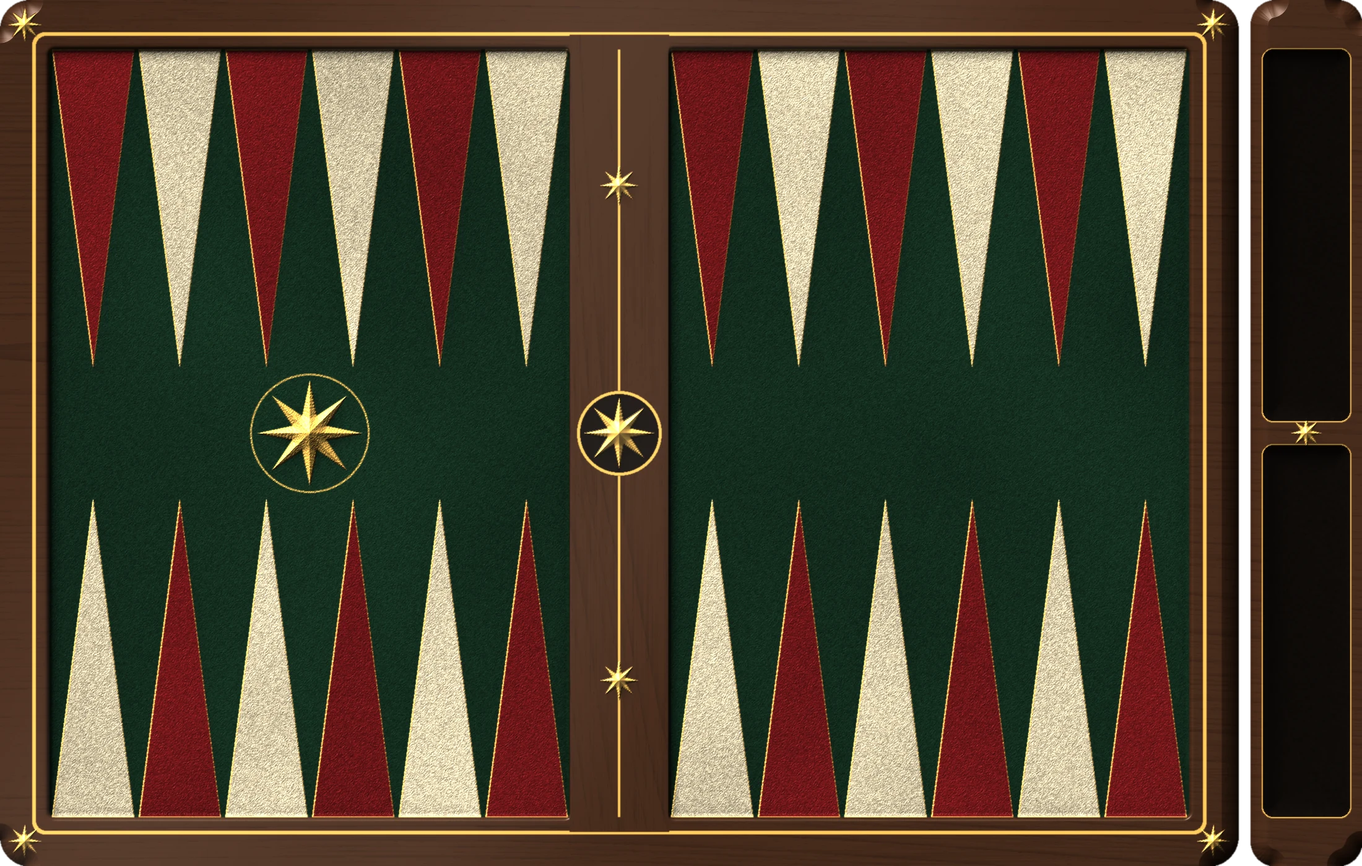
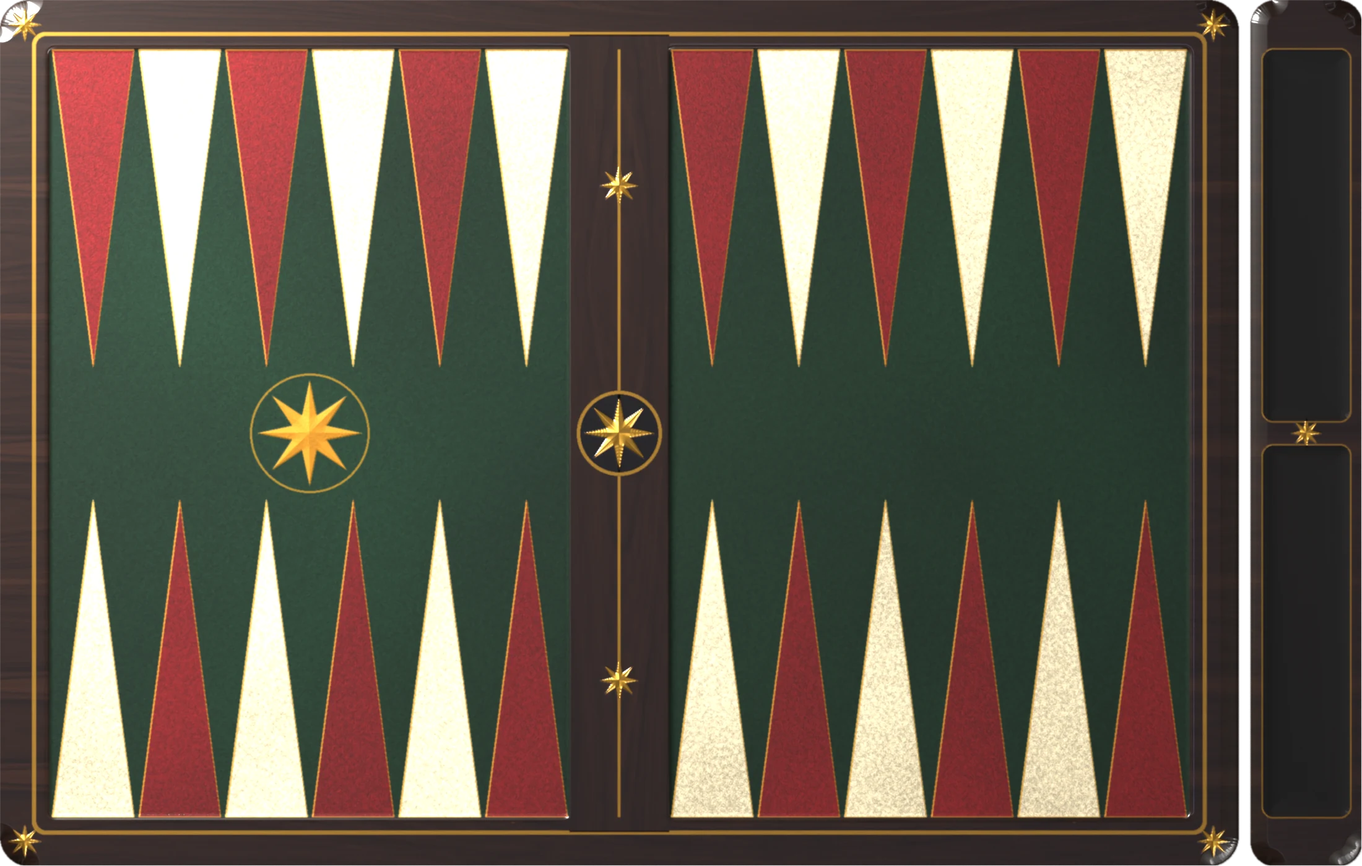
Все доски и стол из Blender
- «Ночь», «Воровские звёзды», «Армения»: 3D-рендер по слоям, дерево с фото шпона, лак и металл — настоящие материалы;
  у «Воровских звёзд» рама из тёмного ореха, у «Армении» литые бронзовые петли
- стол: доски со щелями, тени от настоящих листьев виноградного навеса

Claude-Session: https://claude.ai/code/session_013vq6NREHT7txoK1nXmxN83

diff --git a/index.html b/index.html
@@ -327,7 +327,7 @@ svg#board{position:absolute;inset:0;width:100%;height:100%;display:block}
 (()=>{
 'use strict';
 const $=id=>document.getElementById(id);
-const APP_VERSION='20';   // совпадает с VERSION в sw.js; добавляется к адресам картинок, чтобы новые доски не брались из старого кэша
+const APP_VERSION='21';   // совпадает с VERSION в sw.js; добавляется к адресам картинок, чтобы новые доски не брались из старого кэша
 const NS='http://www.w3.org/2000/svg';
 const f2=v=>(+v).toFixed(1);
 

diff --git a/sw.js b/sw.js
@@ -1,5 +1,5 @@
 // Офлайн-кэш: страница, доски, звуки и шрифты кэшируются при установке.
-const V = '20';                 // = APP_VERSION в index.html
+const V = '21';                 // = APP_VERSION в index.html
 const VERSION = 'nardy-v' + V;
 const SHELL = [
   './',
